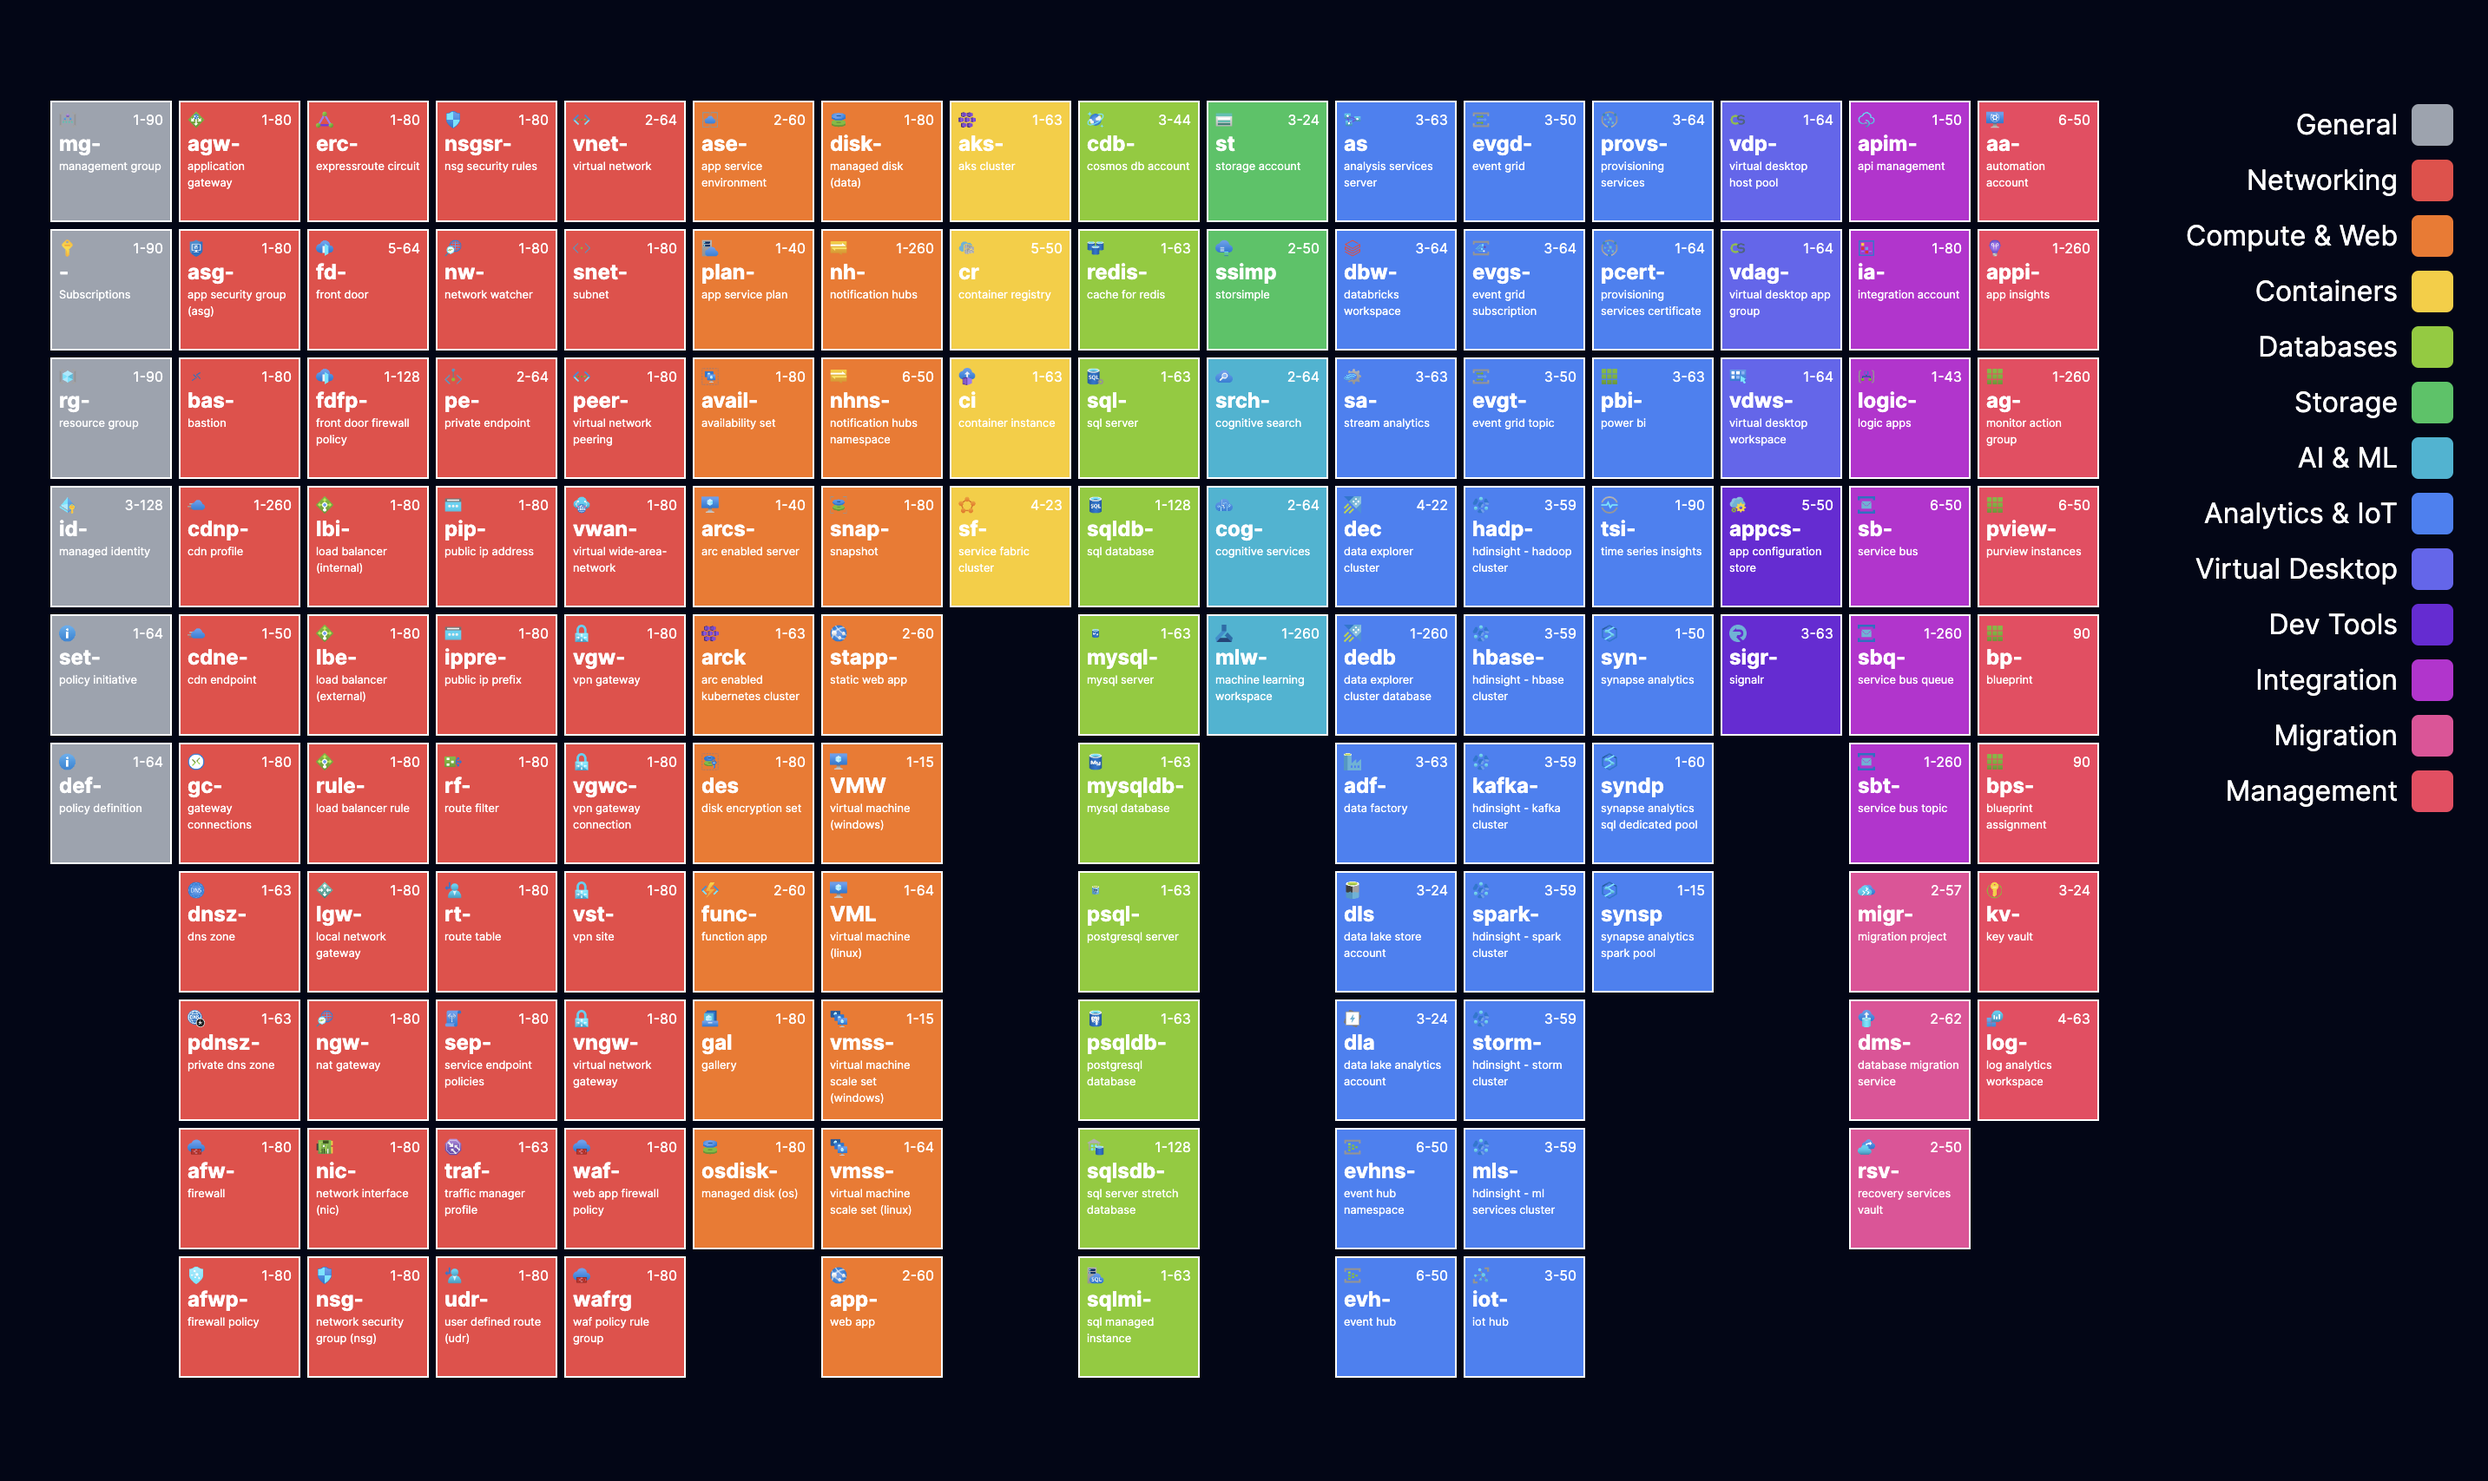
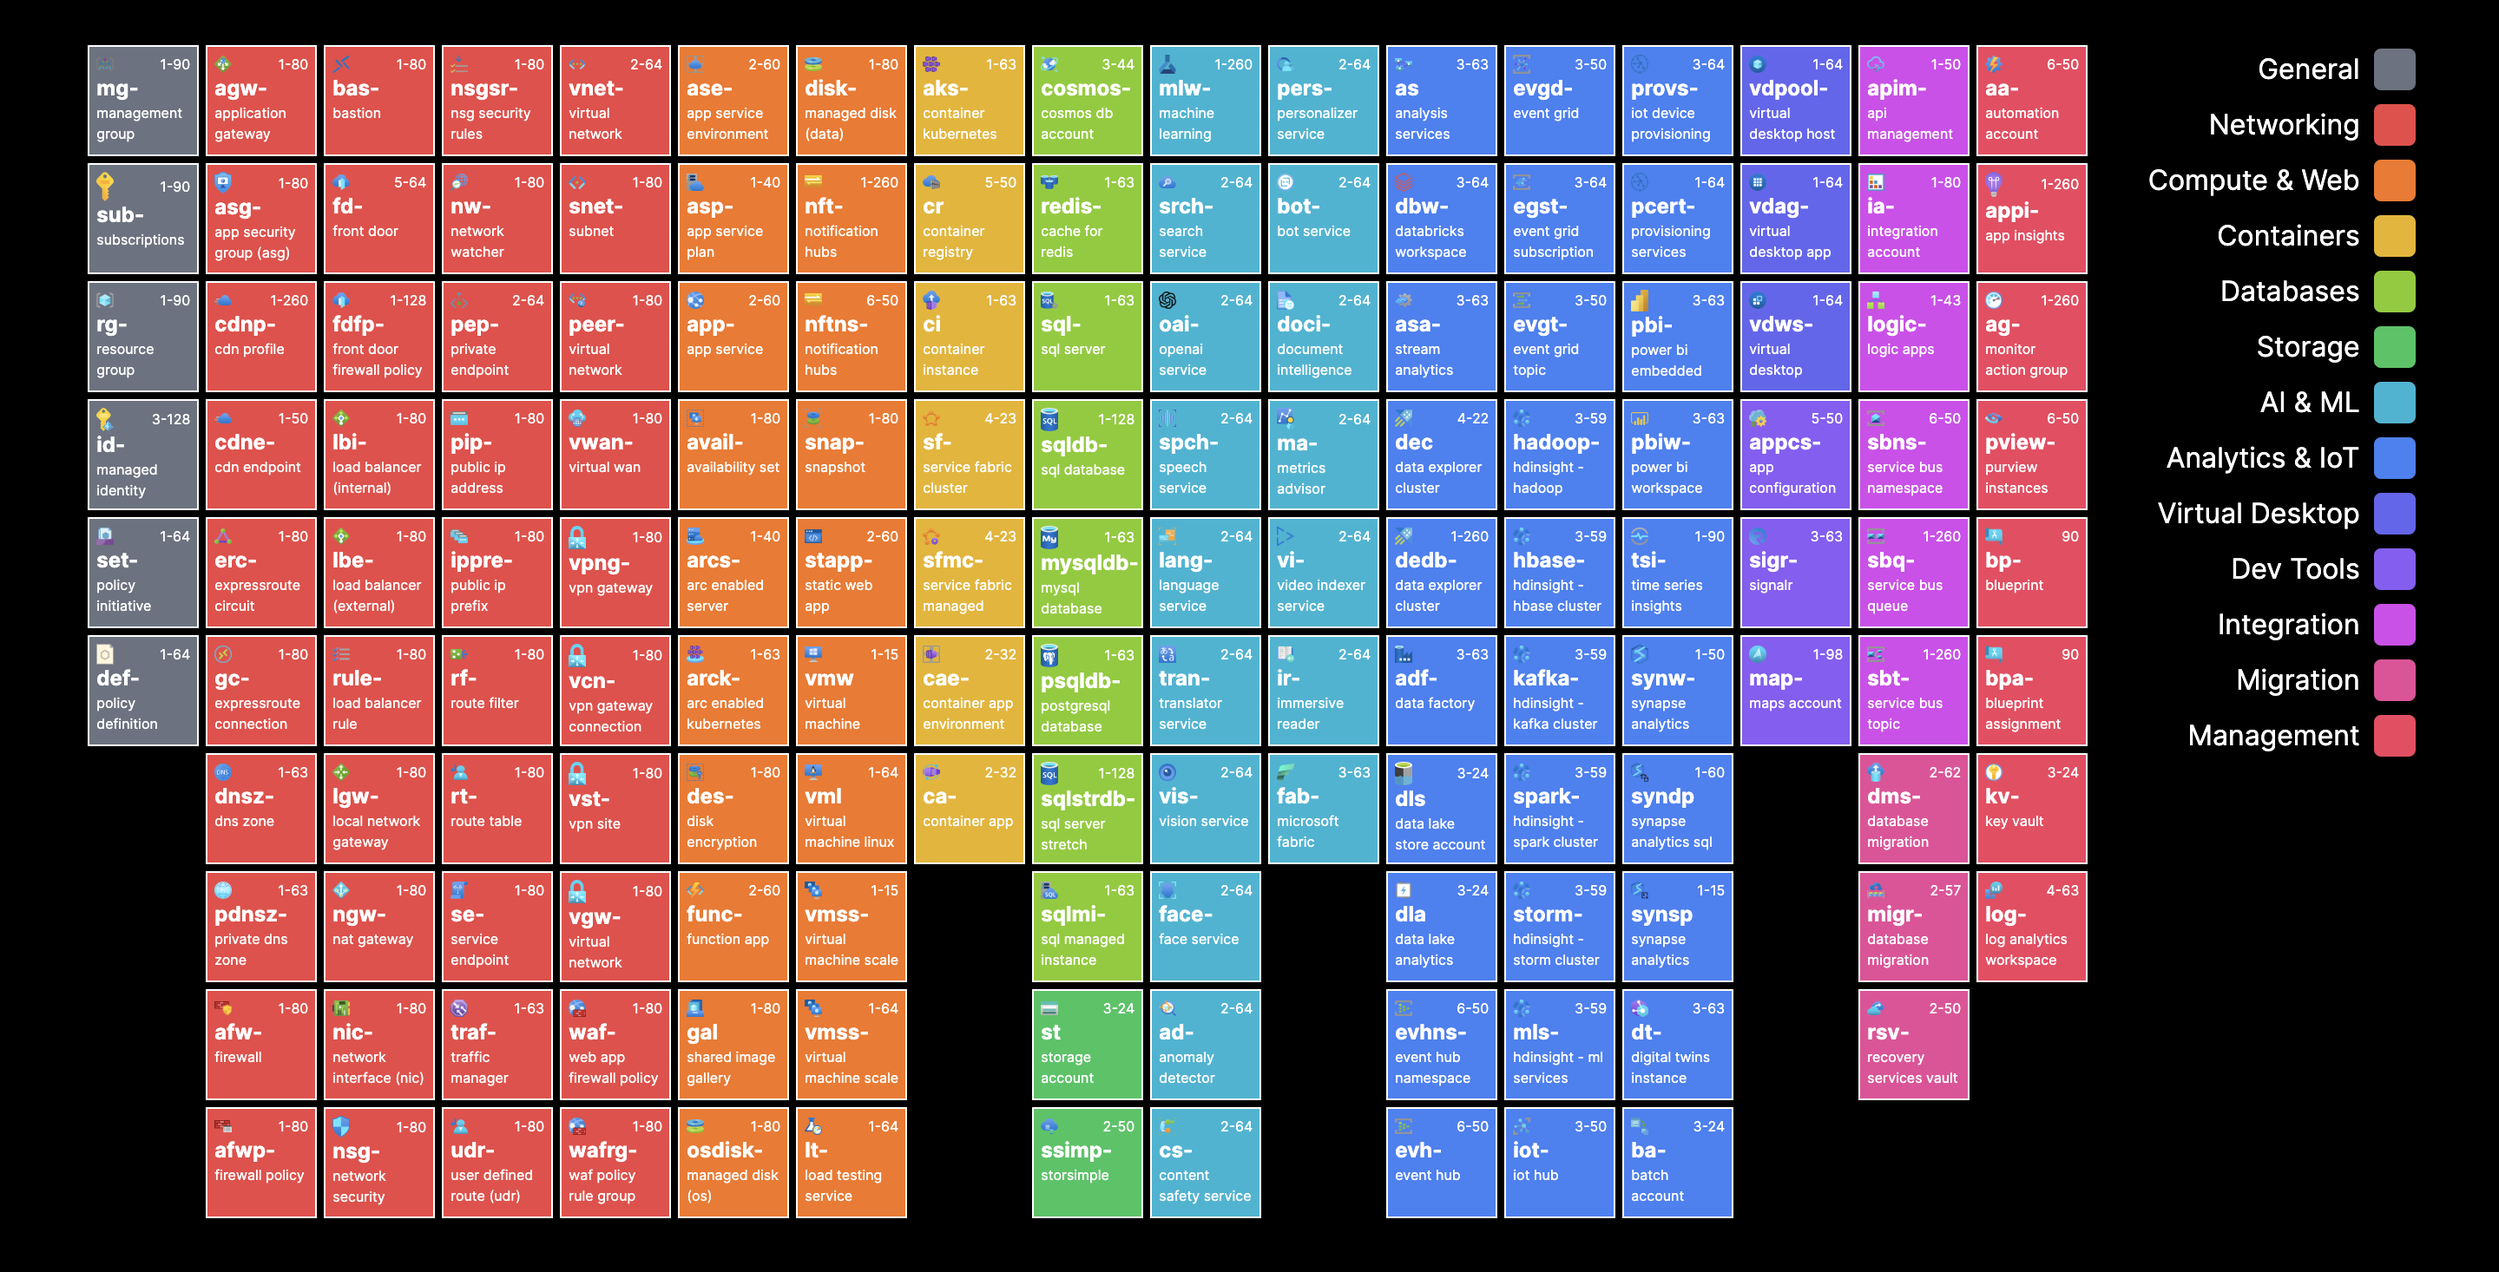
Enlargened full screen. Updated screen shot

diff --git a/src/components/column.tsx b/src/components/column.tsx
@@ -132,6 +132,8 @@ const Cell: React.FC<CellProps> = ({
         //   select();
         // }}
         className={`2xl:w-16 2xl:h-16 h-14 w-14 ${
+          zoomLevel === 2 ? 'h-16 w-16' : ''
+        } ${
           isDisabled ? 'cursor-auto' : 'cursor-pointer'
         }  dark:border-white border-black border m-0.5 p-1 ${colorOption} ${transparent} justify-center items-center cursor-pointer transition-all ${hoverScale} z-0 hover:z-10 `}
         aria-describedby={`${item.slug}-desc`}
@@ -152,10 +154,18 @@ const Cell: React.FC<CellProps> = ({
             ) : null}
             <span className="text-[0.5rem]">{item.length ?? '1-100'}</span>
           </div>
-          <h2 className="justify-start w-full font-bold text-[.65rem]">
+          <h2
+            className={`justify-start w-full font-bold ${
+              zoomLevel === 2 ? 'text-xs' : 'text-[.65rem]'
+            }`}
+          >
             {item.slug}
           </h2>
-          <p className="justify-center items-center w-full text-[0.4rem] h-full  overflow-hidden">
+          <p
+            className={`justify-center items-center w-full ${
+              zoomLevel === 2 ? 'text-[8px]' : 'text-[0.4rem]'
+            }  h-full  overflow-hidden`}
+          >
             <span className="text-left break-words w-full mb-4">
               {item.name}
             </span>

diff --git a/src/components/table-wrapper.tsx b/src/components/table-wrapper.tsx
@@ -53,7 +53,11 @@ export default function TableWrapper({ children }: { children: JSX.Element }) {
   }, [textSearch, navigate]);
 
   return (
-    <main className="relative flex-col min-h-screen items-center justify-center p-8 ">
+    <main
+      className={`relative flex-col min-h-screen items-center justify-center ${
+        isFullScreen ? 'p-0' : 'p-8'
+      }`}
+    >
       <div className="static lg:relative top-0 left-0 w-full lg:flex flex-col items-center justify-center">
         {isFullScreen ? null : (
           <>
@@ -80,7 +84,7 @@ export default function TableWrapper({ children }: { children: JSX.Element }) {
         <main
           className={
             isFullScreen
-              ? 'flex flex-col justify-center items-center'
+              ? 'flex flex-col justify-center items-center w-full'
               : 'border-border rounded-md w-full'
           }
         >
@@ -102,7 +106,7 @@ export default function TableWrapper({ children }: { children: JSX.Element }) {
             textSearch={textSearch}
             setActiveElement={setActiveElement}
             setOpen={setOpen}
-            zoomLevel={isFullScreen ? 1 : 0}
+            zoomLevel={isFullScreen ? 2 : 0}
           />
         </main>
       </div>

diff --git a/src/app/resource/[id]/page.tsx b/src/app/resource/[id]/page.tsx
@@ -17,9 +17,8 @@ export default function Page({ params }: { params: { id: string } }) {
     // this file may or may not be here, so we need to handle the error
 
     codeSnippet = fs.readFileSync(filePath, 'utf8');
-    console.log(codeSnippet);
   } catch (err) {
-    console.log('nope');
+    console.log(err);
     // Handle the error appropriately, e.g., return an error component or message.
   }
 
